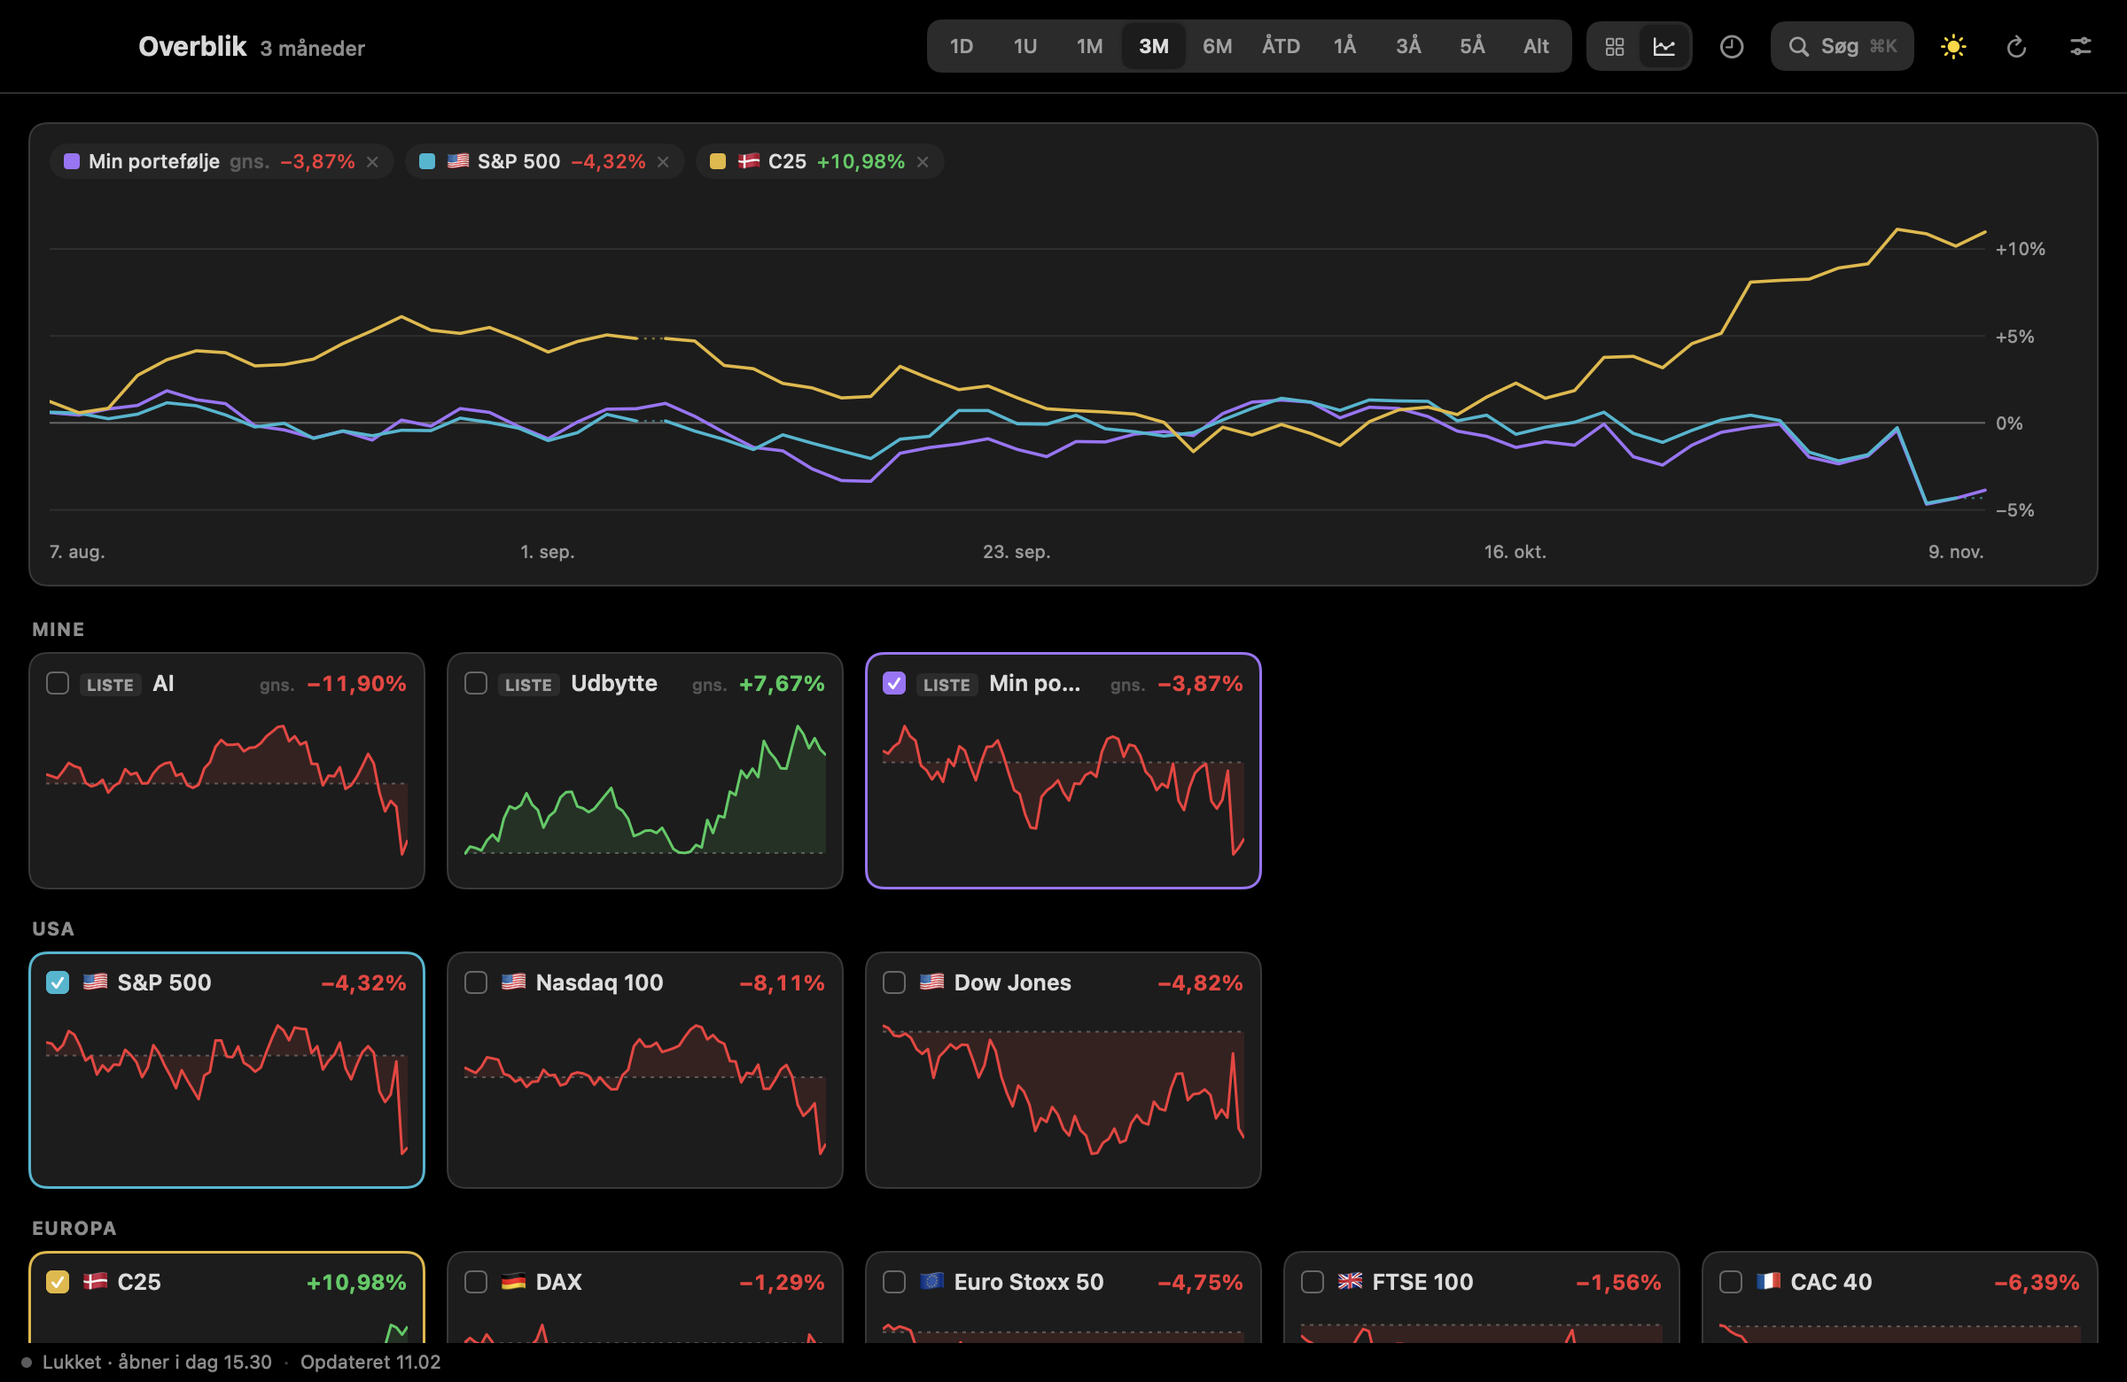
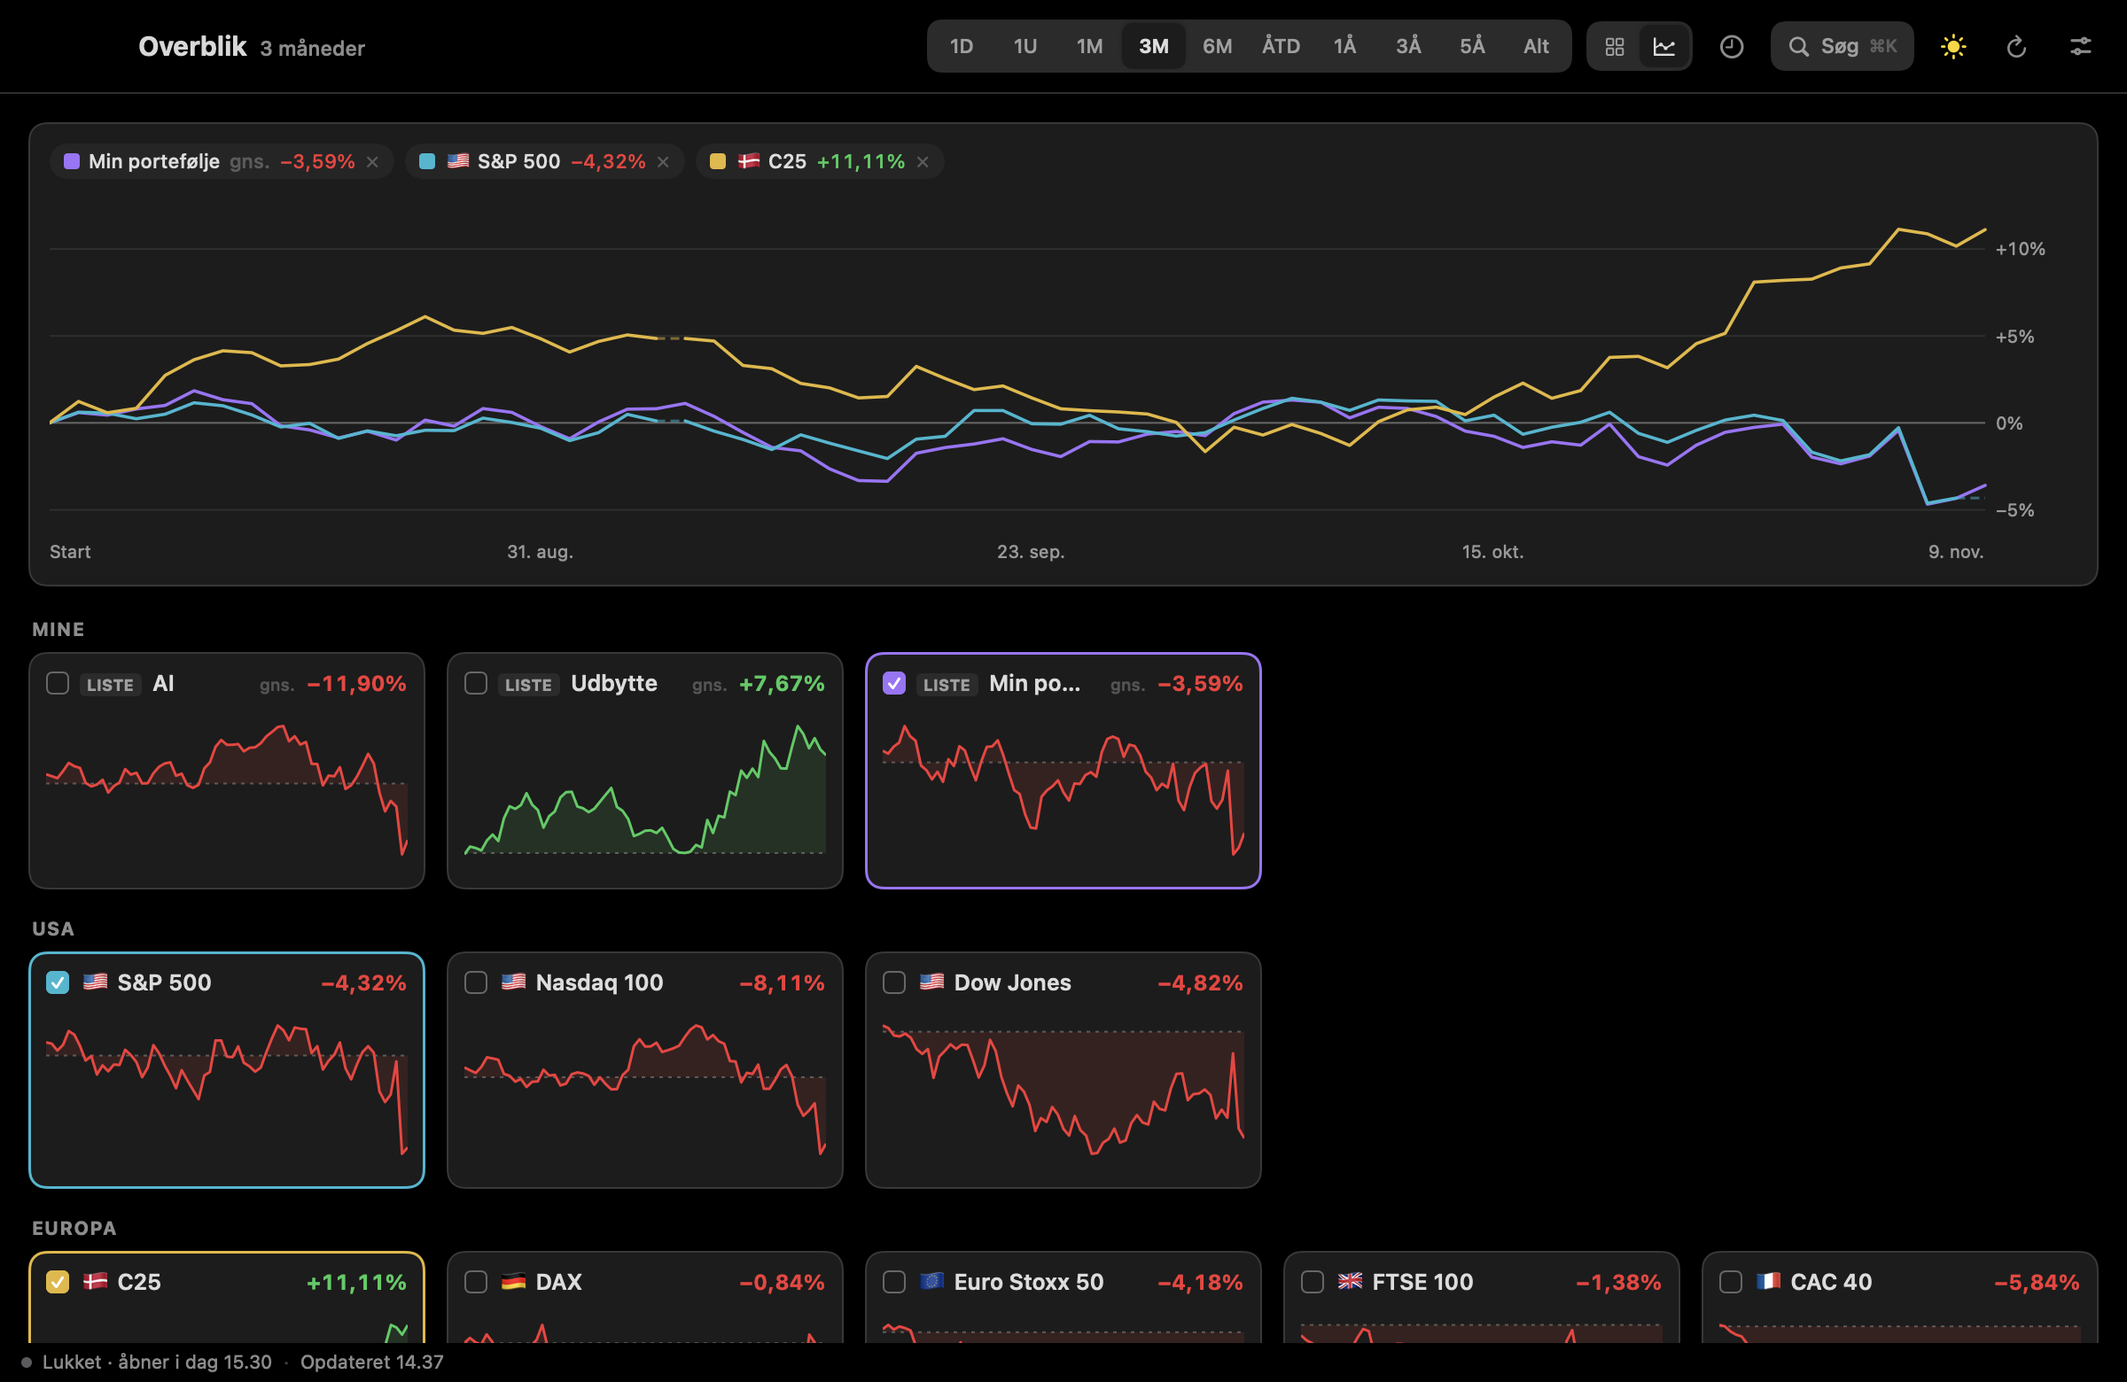
Keep compared lines connected and compare 1W on daily closes
A line whose market is closed while another trades now goes on as a
flat, dashed line in a lighter shade — drawn through, not traded on —
instead of faint dots that read as separate pieces. 1W is compared in
daily closes, since Europe and the US share only two hours of the day;
the cards keep their half-hours. Lines in days or longer all leave from
0 % at one shared point labelled Start, each market's own close before
the range being on its own day. Closes are dated two hours past UTC so a
NAV stamped at Copenhagen midnight lands on its own day, and a short
axis labels every day.

diff --git a/Sources/Stockmote/OverviewLines.swift b/Sources/Stockmote/OverviewLines.swift
@@ -62,6 +62,10 @@ final class OverviewLinesStore: ObservableObject {
     static let shared = OverviewLinesStore()
 
     @Published private(set) var lines: [OverviewKind: OverviewLine] = [:]
+    /// 1U only: the lines in daily closes, for the comparison. Europe and the
+    /// US trade at different hours, so within the day their lines would mostly
+    /// be held; a close per trading day lines them up.
+    @Published private(set) var dailyLines: [OverviewKind: OverviewLine] = [:]
     /// The range the lines are for; while another is loading, the cards say so.
     @Published private(set) var loadedPeriod: Period?
     @Published private(set) var isLoading = false
@@ -72,6 +76,13 @@ final class OverviewLinesStore: ObservableObject {
 
     func line(_ kind: OverviewKind) -> OverviewLine? {
         loadedPeriod == MarketStore.shared.period ? lines[kind] : nil
+    }
+
+    /// A card's line in the comparison: 1U in daily closes.
+    func compareLine(_ kind: OverviewKind) -> OverviewLine? {
+        let period = MarketStore.shared.period
+        guard loadedPeriod == period else { return nil }
+        return period == .week ? dailyLines[kind] : lines[kind]
     }
 
     /// Fetches the series for every card, unless they are already in and
@@ -89,26 +100,32 @@ final class OverviewLinesStore: ObservableObject {
         task?.cancel()
         isLoading = true
         task = Task { [weak self] in
-            let fetched = await Yahoo.fetchSeries(symbols, period: period)
+            async let fetched = Yahoo.fetchSeries(symbols, period: period)
+            async let daily = period == .week ? Yahoo.fetchSeries(symbols, period: period, interval: "1d") : [:]
+            let (intraday, closes) = await (fetched, daily)
             guard !Task.isCancelled, let self else { return }
             // Daily, weekly and monthly closes are stamped at each exchange's
             // own opening time; one date is one moment, so markets line up.
             let byDate = !["5m", "30m"].contains(period.replayInterval)
-            let series = fetched.mapValues { Raw($0, byDate: byDate) }
-            var lines: [OverviewKind: OverviewLine] = [:]
-            for index in indices {
-                if let s = series[index.benchmark] { lines[.index(index.id)] = Self.line(s) }
-            }
-            for list in lists {
-                let members = list.items.compactMap { MarketStore.quoteSymbol($0).flatMap { series[$0] } }
-                if let line = Self.average(members) { lines[.watchlist(list.id)] = line }
-            }
-            self.lines = lines
+            self.lines = Self.lines(intraday.mapValues { Raw($0, byDate: byDate) }, indices: indices, lists: lists)
+            self.dailyLines = Self.lines(closes.mapValues { Raw($0, byDate: true) }, indices: indices, lists: lists)
             self.loadedPeriod = period
             self.loadedAt = Date()
             self.isLoading = false
             self.task = nil
         }
+    }
+
+    private static func lines(_ series: [String: Raw], indices: [MarketIndex], lists: [Watchlist]) -> [OverviewKind: OverviewLine] {
+        var lines: [OverviewKind: OverviewLine] = [:]
+        for index in indices {
+            if let s = series[index.benchmark] { lines[.index(index.id)] = line(s) }
+        }
+        for list in lists {
+            let members = list.items.compactMap { MarketStore.quoteSymbol($0).flatMap { series[$0] } }
+            if let line = average(members) { lines[.watchlist(list.id)] = line }
+        }
+        return lines
     }
 
     /// Snapshot mode: waits until the lines are in.
@@ -123,12 +140,15 @@ final class OverviewLinesStore: ObservableObject {
         var closes: [Double?] = []
         let previousClose: Double
 
-        /// With `byDate`, each close is stamped at the start of its UTC date
-        /// (the European and US sessions share it), the latest of a date kept.
+        /// With `byDate`, each close is stamped at the start of its date, the
+        /// latest of a date kept. The date is UTC's two hours on, so a NAV
+        /// stamped at midnight in Copenhagen (22.00 or 23.00 UTC) falls on its
+        /// own day, as do Europe's and the US sessions.
         init(_ s: Yahoo.Series, byDate: Bool) {
             previousClose = s.previousClose
             for (time, close) in zip(s.timestamps, s.closes) {
-                let stamp = byDate ? time - ((time % 86_400) + 86_400) % 86_400 : time
+                let shifted = time + 7_200
+                let stamp = byDate ? shifted - ((shifted % 86_400) + 86_400) % 86_400 : time
                 if stamp == timestamps.last {
                     if close != nil { closes[closes.count - 1] = close }
                 } else {
@@ -277,8 +297,10 @@ struct SparkLine: View {
 ///
 /// The lines share one timeline: every moment any of them has a close. A
 /// line without a close at a moment (its market closed while another
-/// trades) holds its latest close there, drawn dotted, since no trade took
-/// place; before its first close it isn't drawn.
+/// trades) holds its latest close there: the line goes on, flat and dashed
+/// in a lighter shade — a line drawn through, not traded on. Before its first
+/// close it isn't drawn. 1U is compared in daily closes, and every range in
+/// days or longer starts at 0 %.
 struct CompareChart: View {
     @ObservedObject private var prefs = Preferences.shared
     @ObservedObject private var store = OverviewLinesStore.shared
@@ -302,8 +324,8 @@ struct CompareChart: View {
 
     var body: some View {
         let kinds = kinds
-        let (times, tracks) = Self.align(kinds.enumerated().map { n, kind in
-            Track(kind: kind, color: CompareColors.all[n % CompareColors.all.count], line: store.line(kind))
+        let (times, tracks) = Self.align(fromZero: market.period != .day, kinds.enumerated().map { n, kind in
+            Track(kind: kind, color: CompareColors.all[n % CompareColors.all.count], line: store.compareLine(kind))
         })
         VStack(alignment: .leading, spacing: 8) {
             HStack(alignment: .center, spacing: 6) {
@@ -336,10 +358,13 @@ struct CompareChart: View {
 
     private func readout(_ times: [Int]) -> String {
         if let hovered, times.indices.contains(hovered) {
+            if hovered == 0, market.period != .day {
+                return tr("Start: hvert markeds lukkekurs før tidsrummet", "Start: each market's close before the range")
+            }
             return Self.label(times[hovered], times: times, period: market.period, long: true)
         }
-        return tr("0 % = kursen ved periodens start · i hvert markeds valuta",
-                  "0 % = the price at the start of the range · in each market's currency")
+        return tr("0 % = kursen ved periodens start · stiplet = markedet lukket, sidste kurs holdt · i hvert markeds valuta",
+                  "0 % = the price at the start of the range · dashed = market closed, last price held · in each market's currency")
     }
 
     private func chip(_ track: Track) -> some View {
@@ -393,7 +418,7 @@ struct CompareChart: View {
                                      at: CGPoint(x: plot.width + 6, y: y(value)), anchor: .leading)
                     }
                     for track in tracks {
-                        var solid = Path(), dotted = Path()
+                        var solid = Path(), held = Path()
                         var previous: CGPoint?
                         for (i, value) in track.values.enumerated() {
                             guard let value else { previous = nil; continue }
@@ -402,18 +427,24 @@ struct CompareChart: View {
                                 if track.own[i] {
                                     solid.move(to: previous); solid.addLine(to: point)
                                 } else {
-                                    dotted.move(to: previous); dotted.addLine(to: point)
+                                    held.move(to: previous); held.addLine(to: point)
                                 }
                             }
                             previous = point
                         }
-                        context.stroke(dotted, with: .color(track.color.opacity(0.55)), style: StrokeStyle(lineWidth: 1.2, dash: [1.5, 3]))
+                        context.stroke(held, with: .color(track.color.opacity(0.5)), style: StrokeStyle(lineWidth: 1.5, dash: [5, 3]))
                         context.stroke(solid, with: .color(track.color), style: StrokeStyle(lineWidth: 1.8, lineCap: .round, lineJoin: .round))
                     }
-                    for fraction in [0.0, 0.25, 0.5, 0.75, 1.0] where times.count > 1 {
-                        let i = Int((fraction * Double(times.count - 1)).rounded())
-                        let anchor: UnitPoint = fraction == 0 ? .topLeading : (fraction == 1 ? .topTrailing : .top)
-                        context.draw(Text(Self.label(times[i], times: times, period: market.period, long: false))
+                    // Every moment when there are few (1U's days), else five.
+                    let marks = times.count <= 8 ? Array(times.indices)
+                        : [0.0, 0.25, 0.5, 0.75, 1.0].map { Int(($0 * Double(times.count - 1)).rounded()) }
+                    for i in marks where times.count > 1 {
+                        let anchor: UnitPoint = i == 0 ? .topLeading : (i == times.count - 1 ? .topTrailing : .top)
+                        // The shared 0 % moment has no one date: each market's
+                        // own close before the range is on its own day.
+                        let text = i == 0 && market.period != .day ? tr("Start", "Start")
+                            : Self.label(times[i], times: times, period: market.period, long: false)
+                        context.draw(Text(text)
                                         .font(.system(size: 10)).foregroundStyle(.secondary),
                                      at: CGPoint(x: x(i), y: plot.height + 4), anchor: anchor)
                     }
@@ -452,21 +483,27 @@ struct CompareChart: View {
     /// Puts the lines on one timeline: every moment any of them has a value
     /// (at most 500). Each line takes its latest value at or before a moment;
     /// `own` says whether it has one of its own since the moment before.
-    private static func align(_ tracks: [Track]) -> ([Int], [Track]) {
+    ///
+    /// With `fromZero` (closes by date) every line starts at 0 % at one
+    /// shared moment the day before the first close: the close the range is
+    /// measured from, so they all leave from the same point.
+    private static func align(fromZero: Bool, _ tracks: [Track]) -> ([Int], [Track]) {
         var times = Array(Set(tracks.flatMap { $0.line?.times ?? [] })).sorted()
         if times.count > 500 {
             let stride = Double(times.count - 1) / 499
             times = (0..<500).map { times[Int((Double($0) * stride).rounded())] }
         }
+        let base = fromZero ? times.first.map { $0 - 86_400 } : nil
+        if let base { times.insert(base, at: 0) }
         let aligned = tracks.map { track -> Track in
             var track = track
             guard let line = track.line else { return track }
             var values = [Double?](repeating: nil, count: times.count)
             var own = [Bool](repeating: false, count: times.count)
             var pointer = 0
-            var last: Double?
+            var last: Double? = base == nil ? nil : 0
             for (i, t) in times.enumerated() {
-                var fresh = false
+                var fresh = i == 0 && base != nil
                 while pointer < line.times.count, line.times[pointer] <= t {
                     if let value = line.values[pointer] { last = value; fresh = true }
                     pointer += 1
@@ -507,6 +544,7 @@ struct CompareChart: View {
                 return CandleChart.label(time, period: .week, long: long)
             }
         }
-        return CandleChart.label(time, period: period, long: long)
+        // 1U is compared in daily closes: dates, not times of day.
+        return CandleChart.label(time, period: period == .week ? .month : period, long: long)
     }
 }

diff --git a/README.da.md b/README.da.md
@@ -75,10 +75,13 @@ se *Kurser for danske fonde og Nordnets fonde*) og **gennemsnittet** af en liste
   ⌘-klik det) for at **sammenligne** det: op til seks linjer i hver sin farve (ingen grøn, rød, blå eller orange, som
   betyder op og ned) på én akse over kortene, alle i 0 % ved tidsrummets start og hver i sit eget markeds valuta. Peg
   for at aflæse alle linjer i samme øjeblik; ✕ ved en linjes navn tager den ud. En linje hvis marked er lukket, mens
-  et andet handler — en helligdag, eller USA før New York åbner — holder sin seneste lukkekurs dér, tegnet prikket,
-  for der blev ikke handlet. Dagskurser og længere passes sammen efter dato, så en europæisk og en amerikansk
-  lukkekurs samme dag står samme sted. 1D er dagen i lukkekurser for hvert 5. minut; når et markeds seneste
-  handelsdag er i går, viser aksen ugedagen.
+  et andet handler — en helligdag, eller USA før New York åbner — holder sin seneste lukkekurs dér: linjen fortsætter,
+  vandret og stiplet i en lysere tone, som en tænkt linje, ikke en handlet. Dagskurser og længere passes sammen efter
+  dato, så en europæisk og en amerikansk lukkekurs samme dag står samme sted, og alle linjer går ud fra 0 % i ét fælles
+  punkt, **Start** (hvert markeds egen lukkekurs før tidsrummet ligger på sin egen dag). 1U sammenlignes på
+  dagslukkekurser — inden for dagen deler Europa og USA kun to timer, og linjerne ville mest stå stille — mens kortene
+  beholder halve timer. 1D er dagen i lukkekurser for hvert 5. minut; når et markeds seneste handelsdag er i går,
+  viser aksen ugedagen.
 - **Handelstider** (uret i værktøjslinjen på overblikket, eller Vis → Handelstider på overblikket; slået fra indtil
   du slår det til, og det huskes): et bånd over overblikket med dagens handelstid i din egen tid (Europa 9.00–17.30
   og USA 15.30–22.00 set fra Danmark) og en markør for nu. Lørdag og søndag — i hver børs' egen tidszone — er

diff --git a/README.md b/README.md
@@ -76,9 +76,13 @@ an indicative value is not averaged in.
   six lines in their own colours (none green, red, blue or orange, which mean up and down) on one axis above the
   cards, all at 0 % at the start of the range and each in its own market's currency. Pointing reads every line at
   that moment; ✕ on a line's label takes it out. A line whose market is closed while another trades — a holiday,
-  or the US before New York opens — holds its last close there, drawn dotted, since no trade took place. Daily and
-  longer closes are matched by date, so a European and a US close on the same day sit at the same point. 1D is the
-  day in 5-minute closes; when one market's latest session is yesterday's, the axis gives the weekday.
+  or the US before New York opens — holds its last close there: the line goes on, flat and dashed in a lighter
+  shade, as a line drawn through rather than traded on. Daily and longer closes are matched by date, so a European
+  and a US close on the same day sit at the same point, and every line leaves from 0 % at one shared point,
+  **Start** (each market's own close before the range is on its own day). 1W is compared in daily closes — within
+  the day Europe and the US share only two hours, and the lines would mostly be held — while the cards keep their
+  half-hours. 1D is the day in 5-minute closes; when one market's latest session is yesterday's, the axis gives
+  the weekday.
 - **Trading hours** (the clock in the toolbar on the overview, or View → Trading Hours on Overview; off until you
   turn it on, and remembered): a band over the overview with today's sessions in your own time (Europe 9.00–17.30
   and the US 15.30–22.00 seen from Denmark) and a marker for now. On Saturday and Sunday — in each exchange's own
